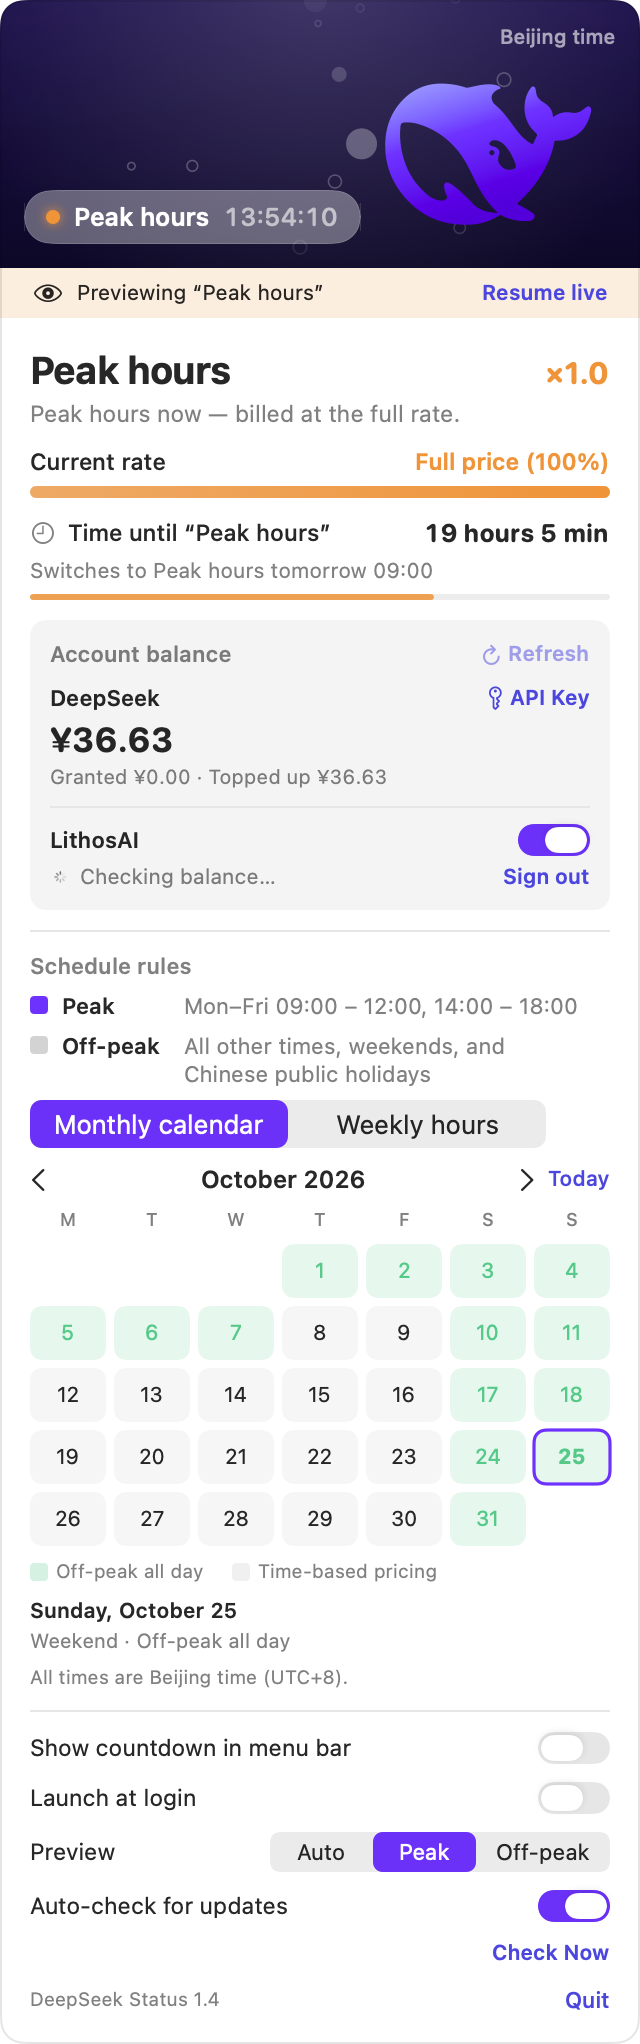
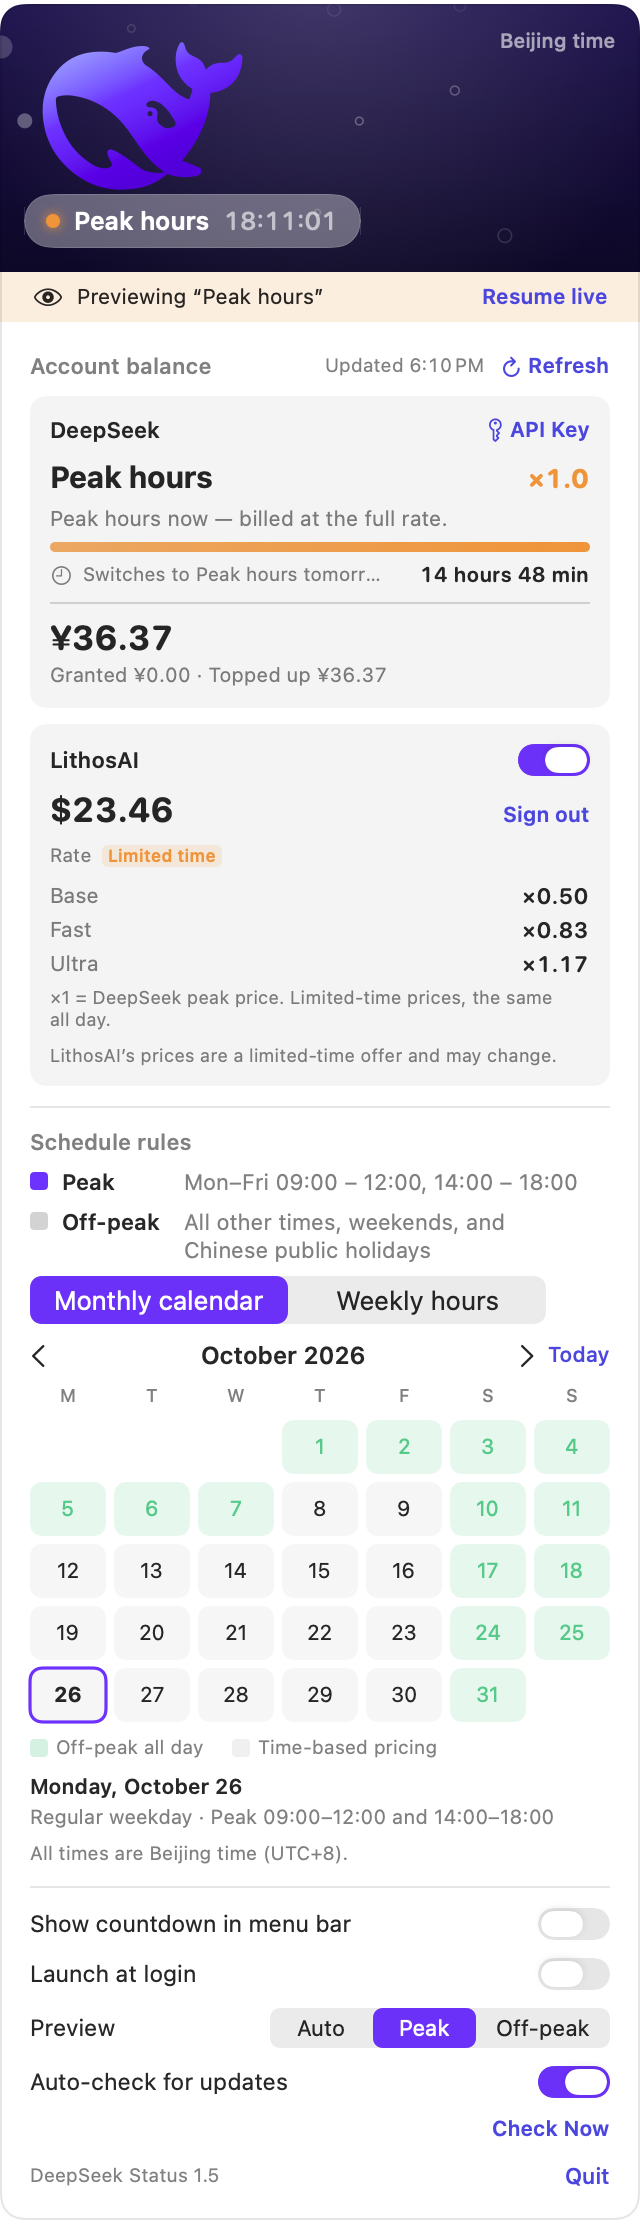
Document the per-provider cards and re-capture the 1.5 screenshots
The panel now gives each provider its own card, so the README no longer
describes one shared balance card: the intro, the screenshot captions, the
usage table and the panel contents list all follow the DeepSeek / LithosAI
split, and two new FAQ entries explain what the LithosAI multiples mean and
that switching it off does not sign you out.

The live panel captures were still the 1.4 layout, so they are re-captured
from this build (calendar, weekly, peak and off-peak). DEVELOPMENT.md picks
up the new panel heights and the rates self-check.

diff --git a/README.md b/README.md
@@ -20,10 +20,11 @@ worth answering without opening a browser tab. DeepSeek Status answers it with a
 - 🔵 **Peak hours** — a bright DeepSeek-blue whale, head up, bubbles trailing behind its tail.
 - 😴 **Off-peak hours** — a pale, sleepy whale lying on its side, with little `z`s floating above it.
 
-Click the whale to open a panel with the current period, the price multiplier, a live countdown to
-the next switch, a monthly pricing calendar, a weekly schedule heat map, and — once you paste an API key — the balance left on
-your DeepSeek account — and an optional second row with your prepaid LithosAI credits. If you want,
-the countdown can also sit directly next to the menu bar icon.
+Click the whale to open a panel with one card per provider. The **DeepSeek** card holds the current
+period, the price multiplier, a rate bar, a live countdown to the next switch and — once you paste an
+API key — the balance left on your account. An optional **LithosAI** card adds your prepaid credits,
+the three tier prices and its own sign-in. Below the cards sit a monthly pricing calendar and a weekly
+schedule heat map. If you want, the countdown can also sit directly next to the menu bar icon.
 
 ---
 
@@ -34,12 +35,20 @@ the countdown can also sit directly next to the menu bar icon.
 | <img src="Preview/live-panel-peak.png" width="330" alt="Panel during peak hours"> | <img src="Preview/live-panel-offPeak.png" width="330" alt="Panel during off-peak hours"> |
 | *Current English build in peak preview mode.* | *Current English build in off-peak preview mode.* |
 
-One balance card holds both accounts — DeepSeek from the API key, LithosAI from its own sign-in — with a single **Refresh**:
+Each provider gets its own card — DeepSeek from the API key, LithosAI from its own sign-in — under one
+shared **Refresh**:
 
-| Both accounts | Nothing yet, no requests |
+| Both providers | Nothing yet, no requests |
 | :---: | :---: |
-| <img src="Preview/balance-both.png" width="330" alt="Balance card showing the DeepSeek and LithosAI balances"> | <img src="Preview/balance-no-key.png" width="330" alt="Balance card before an API key is entered"> |
-| *DeepSeek and LithosAI share one card and one refresh time.* | *No key saved means the app never asks for a balance.* |
+| <img src="Preview/balance-both.png" width="330" alt="DeepSeek card with its period and balance above a LithosAI card with its balance and tier prices"> | <img src="Preview/balance-no-key.png" width="330" alt="Cards before an API key is entered"> |
+| *The DeepSeek card holds the period and balance; the LithosAI card holds its credits and tiers, where `×1` is DeepSeek's peak price.* | *No key saved means the app never asks for a balance.* |
+
+The key editor and a failed refresh, straight in the DeepSeek card:
+
+| Key editor | Refresh failed |
+| :---: | :---: |
+| <img src="Preview/balance-key-editor.png" width="330" alt="DeepSeek card with the API key field open"> | <img src="Preview/balance-failed.png" width="330" alt="DeepSeek card reporting a failed balance request"> |
+| *Enter, change or remove the key in place; it lives in the macOS Keychain.* | *An expired key offers **Change API Key** right where it failed.* |
 
 The schedule views:
 
@@ -136,8 +145,8 @@ menu bar extras.
 | --- | --- |
 | **Left-click** the whale | Open / close the details panel |
 | **Right-click** the whale | Quick menu: preview peak, preview off-peak, follow live time, show countdown in the menu bar, quit |
-| **Account balance** | Appears in the panel once an API key is saved. **Refresh** queries it immediately; the time of the last successful refresh sits next to the button |
-| **Account balances** | DeepSeek and LithosAI share one balance card and refresh control. LithosAI is off by default; turning it on opens sign-in if needed. Sign out clears this app’s WebView website data, including OAuth sign-in cookies |
+| **Account balance** | The DeepSeek card appears in the panel once an API key is saved. **Refresh** queries every enabled provider immediately; the time of the last successful refresh sits next to the button |
+| **LithosAI card** | Off by default. Once it has a session, the card shows the prepaid balance, **Sign out** and its three tier prices. Turning the switch off only hides the card — the WebKit session is kept, so turning it back on does not ask you to sign in again. **Sign out** clears this app’s WebView website data, including OAuth sign-in cookies |
 | **Enter / Change API Key** | Opens the key field in the panel. The key is stored in the macOS Keychain; **Remove** deletes it |
 | **Preview** picker in the panel | Force the app to *display* peak or off-peak so you can see both looks at any time. It only changes what is drawn, never the real pricing |
 | **Show countdown in the menu bar** | Adds an `HH:MM:SS` countdown next to the whale (off by default) |
@@ -145,14 +154,14 @@ menu bar extras.
 | **Auto-check for updates** | Sparkle checks the appcast in the background (on by default). **Check Now** in the panel, or **Check for Updates…** in the right-click menu, runs a check immediately |
 | **Quit** | Quits the app |
 
-The panel contains:
+The panel contains one card per provider, so everything about a provider sits in its own card:
 
-- the current period and its price multiplier (`×1.0` / `×0.5`);
-- a "current unit price" comparison bar;
-- the countdown to the next switch, plus how far through the current block you are;
-- **the account balance** once an API key is saved — total, plus the granted / topped-up split, a
-  Refresh button and the time of the last successful refresh;
-- an optional LithosAI prepaid balance, with its own switch and sign-in button;
+- **DeepSeek** — the current period and its price multiplier (`×1.0` / `×0.5`), a "current unit
+  price" comparison bar, the countdown to the next switch plus how far through the current block you
+  are, and then the balance once an API key is saved (total, plus the granted / topped-up split);
+- **LithosAI** — an on/off switch, the prepaid balance with **Sign out**, and its three tier prices
+  (Base / Fast / Ultra) as a limited-time offer. Turn the switch off and the whole card disappears;
+- one shared **Refresh** button and the time of the last successful refresh, above the cards;
 - a monthly pricing calendar for planning ahead, switchable to a 7×24 weekly heat map;
 - the toggles above, a preview picker, and the update controls.
 
@@ -205,6 +214,17 @@ the panel's key editor deletes it.
 Yes, and that case is handled explicitly: a failed refresh always offers **Change API Key**, and an
 expired key is reported as *"The API key is invalid or expired. Replace it?"*. A working key can be
 replaced too, from the small key button next to the refresh time.
+
+**What do the LithosAI prices mean?**
+Every multiple in the app uses **DeepSeek's peak price as `×1`**, so the two providers can be compared
+directly. DeepSeek's own row follows the clock (peak `×1`, off-peak `×0.5`); LithosAI does not have
+peak hours, so its three tiers are the same all day: Base `×0.50`, Fast `×0.83`, Ultra `×1.17`. Those
+are its current **limited-time** prices, read from a constant in the app rather than from the network,
+and they may change — the number to trust is always the one in your LithosAI console.
+
+**Does turning the LithosAI switch off sign me out?**
+No. The switch only decides whether the card is shown; the WebKit session and its cookies stay, so
+turning it back on resumes right where you left off. Only **Sign out** clears the website data.
 
 **Which time zone is used?**
 Beijing time (`Asia/Shanghai`, UTC+8, no DST) always, no matter where your Mac is. This is
@@ -260,6 +280,12 @@ the machine is back.
 - The LithosAI balance never touches the keychain: sign-in runs in the app's own `WKWebView`, and the
   resulting session cookies stay in that WebKit store, so the card can be turned off — or signed out —
   without affecting anything else on the Mac.
+- Everything a provider knows lives in that provider's card: DeepSeek's period, rate bar and countdown
+  used to sit in the panel header with its balance half a screen below, and LithosAI's tiers had
+  nowhere to go. One card per provider means neither provider's rules can leak into the other's.
+- The prices themselves are a small table (`Models/ProviderRateSheet.swift`) keyed to DeepSeek's peak
+  price; DeepSeek's rows are `timeOfDay`, LithosAI's are `flat`, and a check in
+  `./Tools/render-preview.sh rates` fails if the current period is ever multiplied into a fixed tier.
 
 Architecture, tooling, measurements and the pitfalls found along the way are documented in
 **[Docs/DEVELOPMENT.md](Docs/DEVELOPMENT.md)**.

diff --git a/Docs/DEVELOPMENT.md b/Docs/DEVELOPMENT.md
@@ -98,8 +98,9 @@ half of the content. Owning the window fixes that:
   <kbd>Esc</kbd>, and the status item button itself. This reproduces `NSPopover`'s `.transient`
   behaviour without handing over control of the geometry.
 
-Panel width is `PopoverView.width` (320 pt). With the monthly calendar selected its natural height is
-about 914 pt; the existing `StatusPanelContent` scroll fallback keeps it usable on shorter screens.
+Panel width is `PopoverView.width` (320 pt). Since the account area became one card per provider,
+the monthly calendar selection measures 1112 pt and the weekly grid 957 pt; the existing
+`StatusPanelContent` scroll fallback keeps the panel usable on shorter screens.
 
 ### 2.3 Pricing model
 
@@ -299,6 +300,7 @@ Renders the real SwiftUI views with `ImageRenderer`; no window, no screen record
 ./Tools/render-preview.sh balance      # → Preview/balance-*.png (real AppKit buttons, light + dark)
 ./Tools/render-preview.sh measure      # print the natural size of each view
 ./Tools/render-preview.sh schedule     # pricing schedule self-check
+./Tools/render-preview.sh rates        # provider price sheet self-check (fixed tiers stay fixed)
 ./Tools/render-preview.sh candidates   # menu bar color candidate sheet
 ```
 
@@ -399,13 +401,24 @@ both sides, the Friday-evening-to-Monday-morning span, and time-zone independenc
 全部通过 ✅
 ```
 
+`./Tools/render-preview.sh rates` guards the price sheet: every LithosAI tier must read the same in
+both periods (Base `×0.50`, Fast `×0.83`, Ultra `×1.17`), never get a "now" mark, and DeepSeek must
+mark exactly one row matching the current multiplier. It was added after the period multiplier was
+divided into the fixed tiers once, which doubled every LithosAI price off-peak:
+
+```
+✅ LithosAI Base @ Off-peak hours = ×0.50（应为 ×0.50）
+...
+价目全部通过 ✅
+```
+
 A panel placement check on a 2560×1410 display, with the status item at `(1359, 1414, 46, 22)`:
 
 ```
-面板窗口=(1283.0, 490.0, 320.0, 914.0)   ← centred under the icon and clamped into visibleFrame
+面板窗口=(1353.0, 292.0, 320.0, 1112.0)   ← centred under the icon and clamped into visibleFrame
 屏幕可见区域=(0.0, 0.0, 2560.0, 1410.0)
 面板是否完全在可见区域内=true
-最近 2 秒 SwiftUI 画布重绘 60 帧 ≈ 30.0 fps（只剩下已打开的面板水族箱）
+最近 2 秒 SwiftUI 画布重绘 41 帧 ≈ 20.5 fps（只剩下已打开的面板水族箱）
 ```
 
 With the panel closed, idle CPU is 0.0% and the menu bar icon does not repaint (two captures taken
